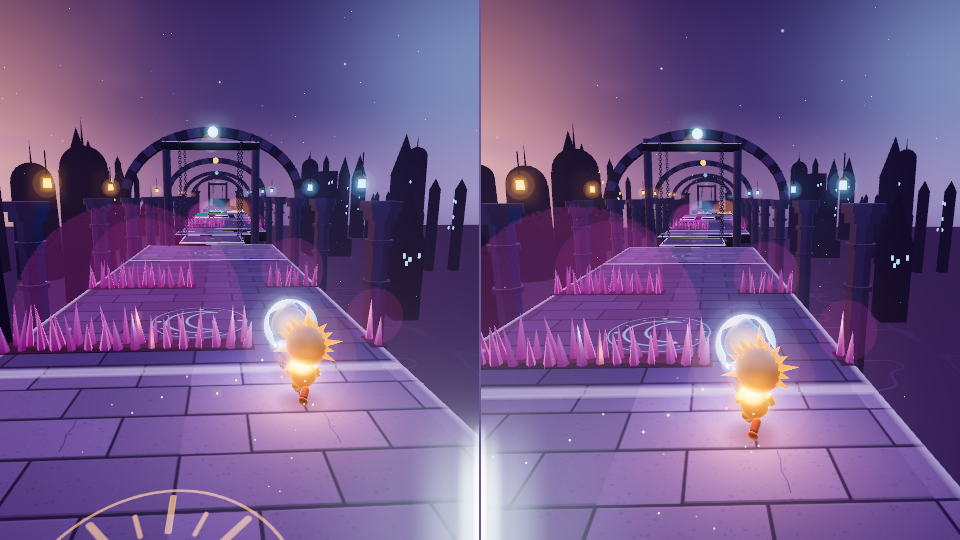
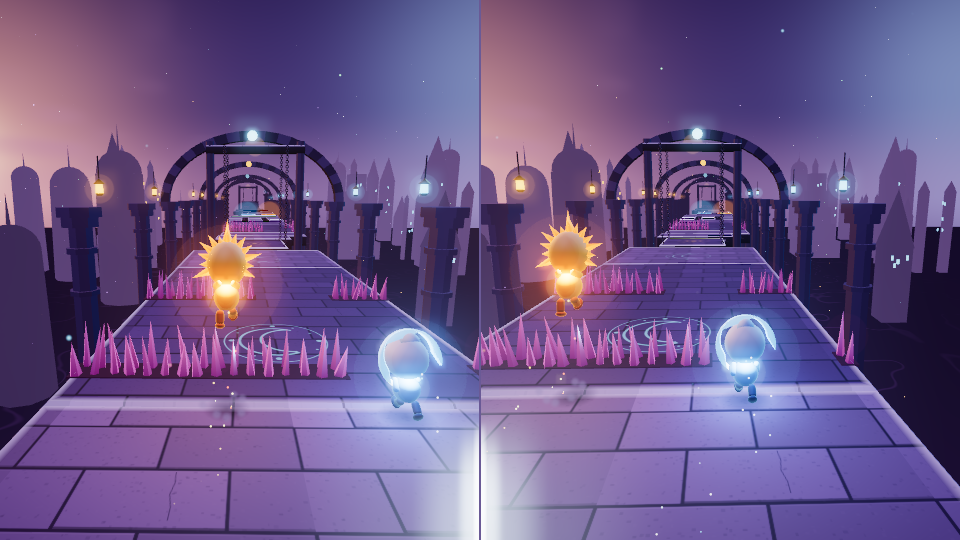
WIP Runner 3D renderer: Luna hood and cape, new death causes, split gap clear, near-glow fade, wider pendulum yoke, bolder sweeper

diff --git a/public/js/r3d/characters.js b/public/js/r3d/characters.js
@@ -150,24 +150,48 @@ export class Character {
     head.add(this.tuft);
   }
 
-  // Luna: a crescent halo framing the head, with a twinkling star at its tip, and a soft crest.
+  // Luna: a deep-blue hood open at the face, its soft point drooping back to a little star, a
+  // glowing crescent on the back of the hood (what the camera behind her sees) and a short cape.
   buildCrescent(head, M) {
-    const s = new THREE.Shape();
-    s.absarc(0, 0, 0.5, Math.PI * -0.15, Math.PI * 1.15, false);
-    s.absarc(0.0, 0.1, 0.42, Math.PI * 1.08, Math.PI * -0.08, true);
-    const g = new THREE.ExtrudeGeometry(s, { depth: 0.06, bevelEnabled: true, bevelThickness: 0.025, bevelSize: 0.02, bevelSegments: 2, curveSegments: 24 });
-    grad(g, -0.1, 0.5, 0x4c8fe0, 0xdff4ff);
-    const cres = this.cres = new THREE.Mesh(g, M.ray);
-    cres.position.set(0, 0.0, 0.13); cres.rotation.z = 0.35; cres.rotation.x = -0.12;
-    head.add(cres);
-    // crest sweeping back over the top
-    const crestG = grad(new THREE.SphereGeometry(0.2, 12, 8, 0, Math.PI * 2, 0, Math.PI / 2).scale(0.8, 0.9, 1.6), 0, 0.2, 0x8fc3ff, 0xe9f7ff);
-    const crest = new THREE.Mesh(crestG, M.skin); crest.position.set(0, 0.26, 0.08); crest.rotation.x = -0.35; head.add(crest);
-    // star at the crescent's upper tip
+    const P = this.P;
+    const hoodMat = patchWorld(new THREE.MeshStandardMaterial({ vertexColors: true, roughness: 0.6, side: THREE.DoubleSide,
+      emissive: 0x0a1c48, emissiveIntensity: 1 }), { rim: col(0x6fb8ff).multiplyScalar(0.6), dissolve: this.dis, key: 'hood' });
+    this.mats.hood = hoodMat;
+    const open = 1.7;   // opening at the face (-z), radians
+    const hoodG = new THREE.SphereGeometry(0.405, 24, 14, Math.PI * 1.5 + open / 2, Math.PI * 2 - open, 0, Math.PI * 0.68);
+    grad(hoodG, -0.2, 0.4, 0x1b2f6e, 0x3f6fd0);
+    const hood = new THREE.Mesh(hoodG, hoodMat); hood.position.set(0, 0.02, 0.02); head.add(hood);
+    // drooping point: a bent cone of three segments
+    const tip = this.tip = new THREE.Group(); tip.position.set(0, 0.3, 0.16); tip.rotation.x = 1.0; head.add(tip);
+    let parent = tip, r = 0.17;
+    this.tipSegs = [];
+    for (let k = 0; k < 3; k++) {
+      const len = 0.17;
+      const g = grad(new THREE.CylinderGeometry(r * 0.62, r, len, 10, 1).translate(0, len / 2, 0), 0, len, k ? 0x3f6fd0 : 0x2a4fa8, 0x5f8fe8);
+      const seg = new THREE.Mesh(g, hoodMat); parent.add(seg);
+      const joint = new THREE.Group(); joint.position.y = len; joint.rotation.x = 0.35; seg.add(joint);
+      this.tipSegs.push(joint);
+      parent = joint; r *= 0.62;
+    }
     const star = this.star = new THREE.Mesh(new THREE.OctahedronGeometry(0.075, 0), M.core);
-    star.scale.set(0.6, 1.2, 0.6);
-    star.position.set(Math.cos(Math.PI * 1.15) * 0.48, Math.sin(Math.PI * 1.15) * 0.48 + 0.0, 0.03);
-    cres.add(star);
+    star.position.y = 0.05; parent.add(star);
+    // crescent on the back of the hood, facing the camera behind her
+    const s = new THREE.Shape();
+    s.absarc(0, 0, 0.17, Math.PI * 0.3, Math.PI * 1.7, false);
+    s.absarc(0.075, 0.0, 0.135, Math.PI * 1.55, Math.PI * 0.45, true);
+    const cg = new THREE.ShapeGeometry(s, 16);
+    const cres = this.cres = new THREE.Mesh(cg, M.core);
+    cres.position.set(0, 0.06, 0.43); cres.rotation.z = -0.5; head.add(cres);
+    // cape from the shoulders, hanging down the back
+    const capeG = new THREE.PlaneGeometry(0.46, 0.52, 4, 6).translate(0, -0.26, 0);
+    const pos = capeG.attributes.position;
+    for (let k = 0; k < pos.count; k++) { const x = pos.getX(k), y = pos.getY(k); pos.setZ(k, 0.09 * Math.cos(x / 0.23 * 1.3) * (1 + y)); pos.setX(k, x * (1 - y * 0.55)); }
+    capeG.computeVertexNormals();
+    grad(capeG, -0.52, 0, 0x4f86e0, 0x1b2f6e);
+    const cape = this.cape = new THREE.Mesh(capeG, hoodMat);
+    cape.position.set(0, 0.74, 0.17);
+    this.body.add(cape);
+    void P;
   }
 
   // pose: { x,y,z (sim, feet), vx, vy, vz (sim units/tick), gr, alive, deadT (s since death or -1), why, win (bool),
@@ -240,9 +264,12 @@ export class Character {
       this.tuft.scale.set(1, 1 + 0.25 * Math.sin(time * 12), 1);
       this.tuft.rotation.x = 0.35 + this.lean * 1.5 + Math.sin(time * 7) * 0.08;
     } else {
-      this.cres.rotation.z = 0.35 + Math.sin(time * 1.3) * 0.05;
       const tw = 1 + 0.35 * Math.sin(time * 5.2);
       this.star.scale.set(0.6 * tw, 1.2 * tw, 0.6 * tw); this.star.rotation.y = time * 2;
+      // the hood point swings with motion; the cape lifts with speed and in the air
+      const flow = sp01 * 0.5 + this.air * 0.4;
+      this.tipSegs.forEach((j, k) => { j.rotation.x = 0.35 + flow * 0.25 + Math.sin(time * 6 - k * 0.8) * 0.07 * (0.3 + sp01); j.rotation.z = Math.sin(time * 2.1 + k) * 0.05 - this.roll * 0.6; });
+      this.cape.rotation.x = 0.12 + flow * 0.9 + Math.sin(time * 9) * 0.05 * sp01 - (pose.vy > 0 && !pose.gr ? 0 : this.air * 0.2);
     }
     // blink
     this.blinkT -= dt;
@@ -265,10 +292,21 @@ export class Character {
     if (dT >= 0) {
       const why = pose.why;
       let k;
-      if (why === 'spike') {
+      if (why === 'spike' || why === 'sweep' || why === 'gate') {
         k = Math.min(1, dT / 0.45);
         D.uDissolveCol.value.setHex(0xff8ae0).multiplyScalar(3);
         body.scale.multiplyScalar(1 + k * 0.25);
+        D.uDark.value = 0;
+      } else if (why === 'orb' || why === 'shard') {   // flattened, then shatters
+        k = Math.min(1, dT / 0.6);
+        D.uDissolveCol.value.copy(P.glow).multiplyScalar(3);
+        const f = Math.min(1, dT / 0.08);
+        body.scale.set(1 + f * 0.5, 1 - f * 0.7, 1 + f * 0.5);
+        D.uDark.value = 0;
+      } else if (why === 'blade') {   // knocked sideways, spinning
+        k = Math.min(1, dT / 0.55);
+        D.uDissolveCol.value.copy(P.glow).multiplyScalar(3);
+        body.rotation.z += dT * 9; root.position.y += Math.min(dT, 0.3) * 1.5;
         D.uDark.value = 0;
       } else if (why === 'pool') {
         k = Math.min(1, dT / 0.9);

diff --git a/public/js/r3d/views.js b/public/js/r3d/views.js
@@ -362,20 +362,21 @@ VIEWS.sweeper = {
     const rot = new THREE.Group(); root.add(rot);
     const bar = o.bar ?? 0.55, R = o.R, arms = o.arms === 2 ? 2 : 1;
     const len = arms === 2 ? 2 * R : R, off = arms === 2 ? 0 : -R / 2;   // local -z = arm 0
-    const beamG = new THREE.BoxGeometry(0.26, 0.22, len).translate(0, bar * 0.55, off);
+    const beamG = new THREE.BoxGeometry(0.34, 0.3, len).translate(0, bar * 0.55, off);
     rot.add(new THREE.Mesh(beamG, materials().gold));
     // thorns along the beam, pointing out both sides and up
-    const n = Math.round(len / 0.32) * 3;
+    const n = Math.round(len / 0.26) * 3;
     const im = new THREE.InstancedMesh(_thornGeo, _thornMat, n);
     const m = new THREE.Matrix4(), q = new THREE.Quaternion(), e = new THREE.Euler(), p = new THREE.Vector3(), s = new THREE.Vector3();
     let k = 0;
     for (let j = 0; j < n / 3; j++) {
       const z = off - len / 2 + (j + 0.5) * len / (n / 3);
+      void 0;
       if (Math.abs(z) < 0.5) continue;
       for (const a of [-1.35, 0, 1.35]) {
         const r = hash(idx * 5 + j, a + 3);
         e.set(0, 0, -a + (r - 0.5) * 0.3); q.setFromEuler(e);
-        p.set(0, bar * 0.55, z); s.set(0.07, 0.24 + r * 0.12, 0.07);
+        p.set(0, bar * 0.55, z); s.set(0.1, 0.34 + r * 0.16, 0.1);
         m.compose(p, q, s); im.setMatrixAt(k++, m);
       }
     }
@@ -421,7 +422,7 @@ VIEWS.pendulum = {
     const hubG = new THREE.SphereGeometry(0.16, 10, 8);
     const hub = new THREE.Mesh(hubG, materials().gold); hub.position.y = -o.R; piv.add(hub);
     // yoke: a stone lintel over the path with two legs on the floor edges
-    const span = Math.max(2.4, (o.x1 - o.x0) * 0.55);
+    const span = (o.x1 - o.x0) + 1.6;   // legs stand outside the whole swing
     const lintG = slabGeometry(span, 0.6, 0.5, { glow: 0.35 });
     const lint = new THREE.Mesh(lintG, materials().stone); lint.position.set(o.px, o.py + 0.45, -o.pz);
     root.add(lint);

diff --git a/public/js/r3d/renderer.js b/public/js/r3d/renderer.js
@@ -32,6 +32,7 @@ class ViewportsPass extends Pass {
     const o = this.owner, pr = renderer.getPixelRatio();
     renderer.setRenderTarget(readBuffer);
     renderer.setClearColor(0x000000, 1);
+    renderer.clear();   // the whole buffer, including the gap between split viewports (bloom would pick it up)
     readBuffer.scissorTest = true;
     for (const vp of o.viewports) {
       readBuffer.viewport.set(vp.x * pr, vp.y * pr, vp.w * pr, vp.h * pr);
@@ -271,7 +272,7 @@ export class Runner3DRenderer {
   onDeath(L, S, i, q) {
     const why = S.why[i], x = q.x, y = q.y, z = -q.z, fx = this.fx;
     const info = { why };
-    if (why === 'spike') {
+    if (why === 'spike' || why === 'sweep' || why === 'gate') {
       fx.burst(x, y + 0.6, z, fx.cols.thorn, 50, 4.5, 0.9, 0.11, 6);
       fx.burst(x, y + 0.6, z, i ? fx.cols.moon : fx.cols.sun, 24, 3, 0.8, 0.08, 4);
     } else if (why === 'pool') {
@@ -283,6 +284,9 @@ export class Runner3DRenderer {
     } else if (why === 'zone') {
       fx.smoke(x, y, z, 24);
       for (let k = 0; k < 30; k++) fx.ember(x + (Math.random() - 0.5), y + Math.random() * 1.4, z + (Math.random() - 0.5));
+    } else if (why === 'blade' || why === 'orb' || why === 'shard') {
+      fx.burst(x, y + 0.7, z, i ? fx.cols.moon : fx.cols.sun, 46, 4.5, 0.9, 0.1, 5);
+      fx.dust(x, y, z, 14, i, 1.4);
     } else {
       fx.burst(x, y + 0.6, z, i ? fx.cols.moon : fx.cols.sun, 30, 2.5, 1.2, 0.1, -1);
     }

diff --git a/public/js/r3d/kit.js b/public/js/r3d/kit.js
@@ -364,6 +364,7 @@ export class GlowField {
           vUv = position.xy + 0.5; vCol = aCol;
           vB = 1.0 - smoothstep(-0.5, 4.0, aOff.z - uZone);
           vec4 mv = viewMatrix * vec4(aOff.xyz, 1.0);
+          vB *= smoothstep(1.0, 4.5, -mv.z);   // fade glows that come right up to the camera
           mv.xy += position.xy * aOff.w;
           gl_Position = projectionMatrix * mv;
         }`,
